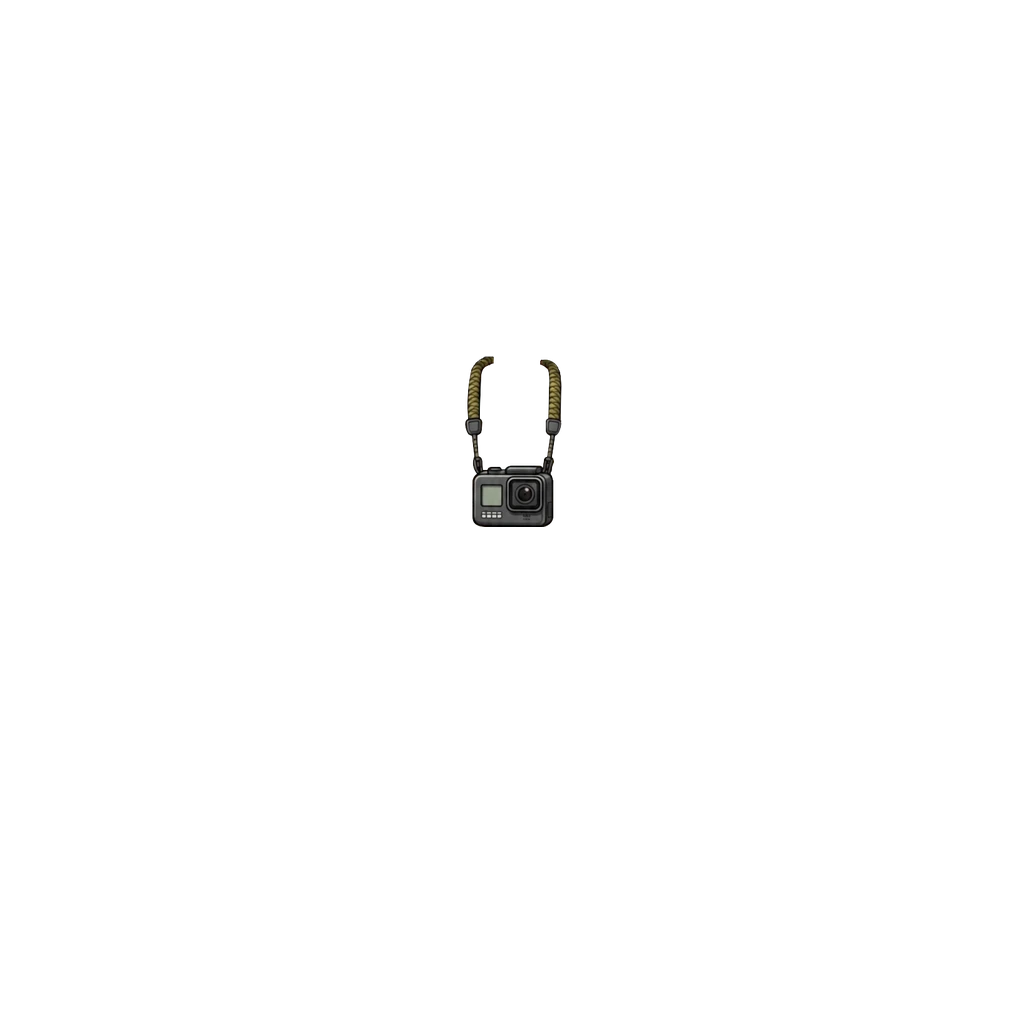
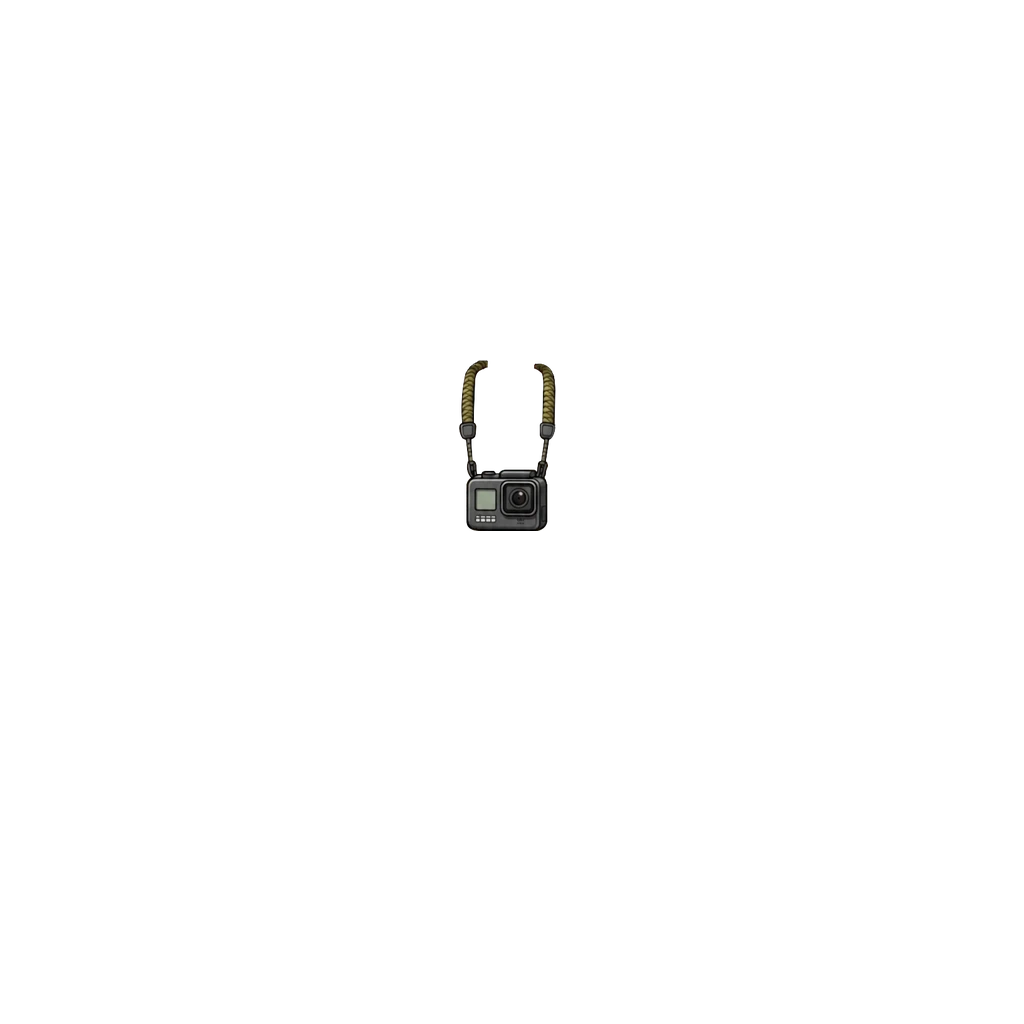
탐험 카메라: 여아만 왼쪽 6·아래로 4 (#904)
여아 그림 위끝 y356→y360, 왼쪽 6. imgGirl ?v=2(남아 그대로).

Claude-Session: https://claude.ai/code/session_018maNuYqDfFyRSe9uKpZhPR

Changed region(s): [[0.4375, 0.3438, 0.5625, 0.5312]]

diff --git a/src/data/avatarEquipment.js b/src/data/avatarEquipment.js
@@ -440,8 +440,9 @@ export const AVATAR_CATALOG = [
      남아 상자 (467,392,564,563) · 여아 상자 (465,356,562,527). 목 장식 z40 이라 옷 위로 보인다.
      [2026-10-05] 사용자 조정 — 남아만 아래로 5·왼쪽으로 2(위끝 y397). 남아 상자 (465,397,562,568). img ?v=2.
      [2026-10-05] 남아만 4% 크게(배율 0.6448, 끈 위끝 y397·가운데 고정). 남아 상자 (463,397,564,575). img ?v=3.
-     [2026-10-05] 남아만 2% 더 크게(배율 0.6577). 남아 상자 (462,397,565,579). img ?v=4. */
-  { id: "neck_camera",    slot: "neck",  label: "탐험 카메라", emoji: "📷", price:DECOR_PRICE.rare, rarity: "rare", theme: "adventure", img: "assets/avatar/neck/action-camera-boy.webp?v=4", imgGirl: "assets/avatar/neck/action-camera-girl.webp", thumb: "assets/avatar/thumb/neck_camera.webp" },
+     [2026-10-05] 남아만 2% 더 크게(배율 0.6577). 남아 상자 (462,397,565,579). img ?v=4.
+     [2026-10-05] 여아만 왼쪽으로 6·아래로 4(위끝 y360). 여아 상자 (459,360,556,531). imgGirl ?v=2. */
+  { id: "neck_camera",    slot: "neck",  label: "탐험 카메라", emoji: "📷", price:DECOR_PRICE.rare, rarity: "rare", theme: "adventure", img: "assets/avatar/neck/action-camera-boy.webp?v=4", imgGirl: "assets/avatar/neck/action-camera-girl.webp?v=2", thumb: "assets/avatar/thumb/neck_camera.webp" },
   /* ── 우주 세트 (남아) — 사용자 원화 2026-09-29 ────────────────────────────
      우주복(top_space)과 같은 원화 세트에서 나온 가방·신발. 둘 다 남아 전용 첫
      세트 아이템이고(back·shoes 슬롯에 살아 있는 아이템이 이제껏 하나도 없었다),

diff --git a/art-src/README.md b/art-src/README.md
@@ -618,4 +618,4 @@ bbox로 여백만 잘라내고 배포본은 높이 480px로 축소했다(전부 
 | thumb-src-hat_post_girl.webp | **상점 목록 그림 여아 우편부 모자 (hat_post_girl, 사용자 원화 2026-10-04)** — 상점 카드에만 보이는 모자 아이콘(쓰는 그림과 별개). 481×292 투명 배경, 세로 160px 로 줄여 탑재(thumb ?v=2) | avatar/thumb/hat_post_girl.webp |
 | thumb-src-hat_wizard_girl.webp | **상점 목록 그림 여아 마법사 모자 (hat_wizard_girl, 사용자 원화 2026-10-04)** — 상점 카드에만 보이는 모자 아이콘(쓰는 그림과 별개). 490×388 투명 배경, 세로 160px 로 줄여 탑재(thumb ?v=2) | avatar/thumb/hat_wizard_girl.webp |
 | thumb-src-hat_helmet_girl.webp | **상점 목록 그림 여아 우주 헬멧 (hat_helmet_girl, 사용자 원화 2026-10-04)** — 상점 카드에만 보이는 모자 아이콘(쓰는 그림과 별개). 518×415 투명 배경, 세로 160px 로 줄여 탑재(thumb ?v=2) | avatar/thumb/hat_helmet_girl.webp |
-| action-camera-src.webp | **탐험 카메라 원화 남녀 공용 (사용자 원화 2026-10-04)** — 156×276 투명 배경, 검은 액션 카메라 + 카키 끈. 첫 목 장식. 배율 0.62, 끈 가운데를 목 가운데에, 끈 위끝을 목·어깨 만나는 높이(남아 y392·여아 y356)에 맞춰 성별마다 따로 탑재. 남아 상자 (467,392,564,563) · 여아 상자 (465,356,562,527). **[2026-10-05 조정]** 남아만 아래로 5·왼쪽 2, 남아 상자 (465,397,562,568) · img ?v=2. 남아만 4% 크게(0.6448), 상자 (463,397,564,575) · img ?v=3. 남아만 2% 더 크게(0.6577), 상자 (462,397,565,579) · img ?v=4. 상점 그림은 원화를 세로 160px 로 | avatar/neck/action-camera-boy.webp · action-camera-girl.webp · thumb/neck_camera.webp |
+| action-camera-src.webp | **탐험 카메라 원화 남녀 공용 (사용자 원화 2026-10-04)** — 156×276 투명 배경, 검은 액션 카메라 + 카키 끈. 첫 목 장식. 배율 0.62, 끈 가운데를 목 가운데에, 끈 위끝을 목·어깨 만나는 높이(남아 y392·여아 y356)에 맞춰 성별마다 따로 탑재. 남아 상자 (467,392,564,563) · 여아 상자 (465,356,562,527). **[2026-10-05 조정]** 남아만 아래로 5·왼쪽 2, 남아 상자 (465,397,562,568) · img ?v=2. 남아만 4% 크게(0.6448), 상자 (463,397,564,575) · img ?v=3. 남아만 2% 더 크게(0.6577), 상자 (462,397,565,579) · img ?v=4. 여아만 왼쪽 6·아래로 4, 상자 (459,360,556,531) · imgGirl ?v=2. 상점 그림은 원화를 세로 160px 로 | avatar/neck/action-camera-boy.webp · action-camera-girl.webp · thumb/neck_camera.webp |
